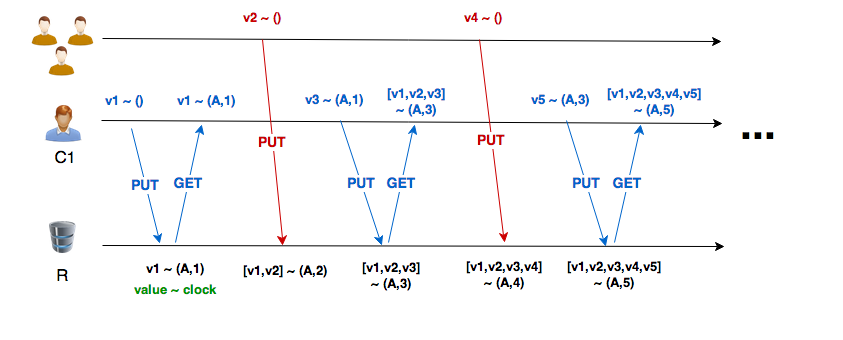
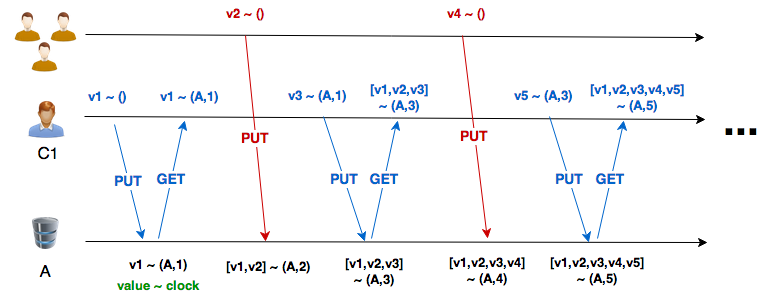
Updated readme with new explanations, new imagens, a new section with real benchmark, introduced client ids and DVV.

diff --git a/README.md b/README.md
@@ -2,7 +2,8 @@
 
 **TL;DR** Dotted Version Vector Sets are similar to Version Vectors (Vector Clocks for some), but prevent false conflicts that can occur with Version Vectors. I also has a better API and is better suited to distributed use cases, such has distributed databases (has shown below).
 
-### Summary
+### Contents
+
 - Intro
 - Why not Version Vectors (Vector Clocks)?
 - The Solution: Dotted Version Vector Sets
@@ -11,75 +12,131 @@
 
 ## Intro
 
-We are presenting the **compact** version of the original [Dotted Version Vectors][paper dvv], which we call **Dotted Version Vector Set (DVVSet)**. It provides a container for a set of conflicting values with causal order information.
+We are presenting the **compact** version of the original [Dotted Version Vectors][paper dvv](DVV), which we call **Dotted Version Vector Set (DVVSet)**. Like its predecessor, DVVSet still accurately describes causality between conflicting values (values we cannot decide through their causal history, which one to keep), but now with a smaller representation, similar to Version Vectors in size.
 
-Let's assume the scenario of a Distributed Key-Value Storage (Ex: Riak, Cassandra, etc), where the entities are the clients and the replicas, and we can also **PUT** (write a value) and **GET** (read a value).
+Let's assume the scenario of a Distributed Key-Value Storage (Ex: Riak, Cassandra, etc), where we have clients, servers and we can write (**PUT**) and read (**GET**) values. We also want to track the causality information of these values.
 
-We can use DVVSet to keep a value and its causal history, with the support for multiples values if they are causally conflicting. One DVVSet is supposed to have 1 value, unless we synchronize or write conflicting DVVSet (we cannot decide through their causal history, which one is newer).
-Therefore, this data structure abstracts the process of tracking and reasoning about the causal relationship of multiple values.
+We can use DVVSet to keep values and their causal history together, with support for multiples conflicting values. One DVVSet has 1 value if there are no conflicts. Otherwise, it stores all conflicting values and their relevant causal information, all in a single DVVSet. Thus, this data structure encapsulates the process of *tracking*, *maintaining* and *reasoning* about values' causality.
 
 
 ## Why not Version Vectors (Vector Clocks)?
 
-First, [Version Vectors are not Vector Clocks][blog VV are not VC]. We are targeting Version Vectors (VV) in this case. Specifically, VV are not suited to support conflicting values. When using VV, we map a value to a VV, and if we try to reconcile two values using their VV, sometimes we have conflicts and want to keep both values. In this situation, want to do with their VV? We have a couple of options: (#1) keep both values and both VV; (#2) keep both values and merge their VV.
-Let's analyze each option with an example with one server and two clients reading and writing to a single key.
+First, [Version Vectors are not Vector Clocks][blog VV are not VC], both have similar structure but different semantics. In this context, the relevant mechanism is *Version Vectors (VV)*.
+
+Every key/value has an associated VV and sometimes conflicts arise, because values for the same key have conflicting VV (there isn't a single VV that dominates all others). Considering that we want to keep all conflicting values until something (a conflict resolution algorithm) or someone (the user) decides hot to reconcile. The question is: **How do we represent conflicts in the server?**
+
+### Client IDs vs Server IDs
+
+There are two different approaches when using VV or similar causality tracking mechanisms: use **Server IDs (SI)** or use **Client IDs (CI)**.
+
+VV need identifiers to track the *entities* responsible for the events. We can either make the servers *responsible* for events to a value (SI), or we can make clients responsible (CI).
+
+A **false conflict** occurs when a set of values contains values that *should* be discard, if the causality were correctly preserved. 
+VV with CI don't have false conflicts like VV with SI. However, they don't scale well. On the other hand, VV with SI scale, but don't have a good support for conflicting values.
 
 
-#### Approach #1 - **Keep both**:
+### Client/Server Example
 
-You can keep both VV, but you are requiring more space for this key. More importantly, VV are not always sufficient to represent conflicts created by two "concurrent writes".
+Lets illustrate the different VV approaches to track events in a simple client/server interaction.
 
-![VV with conflicts #1][VV 1]
 
-**Problem**: As we can see, there is no way for *vanilla* VV to represent two conflicting values, since we can only increment the VV with the id of the server: if we use (A,1) for both, we are saying that they are causally equal, which is not true; using (A,2) implies that *v2* is causally newer than *v1*, which is also not true. If we assume (A,1) for both values *v1* and *v2*, we then have an additional problem where the behavior is undefined or incorrect: in the 3rd write, we receive a value that read *v1* ~ (A,1), so it should conflict with *v2* and overwrite *v1*; however, when writing *v2*, we did not increment its VV to (A,2), thus the new write *v3* wins over (A,1) and overwrites both *v1* and *v2*.
+#### Client IDs
+
+Using VV with CI, you don't have any problem representing conflicts in the server, because each write is associated with the client that did it. We can see that *v3* correctly superseded *v1*, thus no false conflict occurred.
+
+![VV Client IDs #1][VV 1]
+
+**Problem**: If 1000 different clients write to a key/value, its VV will have 1000 `(client_id, counter)` entries. We could prune older entries when a limit is reached, to bound growth and improve scalability, but it would introduce false conflict problems. Additionally, the same client could write to different servers and each would have the same VV, although being different writes. We could combine the identifier to be a pair `client_id/server_id`, but that would actually worsen the VV growth problem even more.
+
+
+#### Server IDs #1 - Keep VV Separated
+
+Using SI, you could keep both VV when conflicts occur, but you would consume more space. More importantly, VV are not sufficient to represent conflicts created by two "concurrent writes".
+
+![VV Server IDs #1][VV 2]
+
+**Problem**: As we can see, there is no way for VV-SI to represent two conflicting values, since we can only increment the VV with the server id: if we use (A,1) for both, we are saying that they are causally equal, which is not true; using (A,2) implies that *v2* is causally newer than *v1*, which is also not true. If we assume (A,1) for both values *v1* and *v2*, we then have an additional problem where the behavior is undefined or incorrect: in the 3rd write, we receive a value that read *v1* ~ (A,1), so it should conflict with *v2* and overwrite *v1*; however, when writing *v2*, we did not increment its VV to (A,2), thus the new write *v3* wins over (A,1) and overwrites both *v1* and *v2*.
 
 A possible solution could be to use some **metadata** to tell us how the values came from and how to deal with conflicting values, but it would not be straightforward and would be full of corner cases and prone to bugs. We should not put the burden on the developer to implement causal behaviors of conflicting values on top of VV.
 
 
-#### Approach #2 - **Merge both**
+#### Server IDs #2 - Merge VV
 
 Another solution is to keep both values and merge their VV into one, which saves space when compared to the previous approach. If a new write conflicts with an existing VV, then merge both VV and increment it normally using the server id. Both values are now related to this new merged VV.
 
-![VV with conflicts #2][VV 2]
+![VV Server IDs #2][VV 3]
 
 **Problem**: We lose the information that *v1* was associated with (A,1) and not (A,2). In the third write we can see how this approach could lead to **false conflicts**. *v3* is being written with (A,1), therefore we know that it should win over *v1* and conflict with *v2*, but since we lost information about the causal past of *v1*, the server has no other option but to keep all three values and merge the VV again. Now the problem is even worse, since we are saying that all three values are related to (A,3). It's easy to see that this could lead to undesired behavior and an explosion of false conflicts.
 
 
 
-## The Solution: Dotted Version Vector Sets
+## The Solution: Dotted Version Vectors (Sets)
 
-We solve the problems above with Dotted Version Vector Sets (DVVSet). Instead of having a mapping between values and their causal information (be it Version Vectors or some other mechanism), we provide a data structure that keeps values and causal information together, while providing a sensible API to manipulate it.
+The problems described above are the reasons that made us develop the original *Dotted Version Vectors (DVV)* in the first place. It uses *Server Ids* but without the problems stated above.
+Lets give a brief explanation about DVV. 
 
-Let's see how DVVSet would manage in our previous example:
+### The Origin: Dotted Version Vectors (DVV)
 
-![Dotted Version Vector Set][DVVSet1]
+A VV is a set of pairs `(id, counter)`. The value of `counter` means that we know all events done by `id` until `counter`. Thus, if `counter` is 3, we know about events #1, #2 and #3, done by that `id`.
 
-As we can see from the example, we have a compact representation like approach #2, while preserving sufficient individual causality to infer that *v1* could be discard, since in the 3rd write we have a VV that already describes the causal information associated with *v1*.
+The novelty of DVV is to provide the context where the last event happened. To do that, we separate the last event from the VV itself. This last event is what we call the **Dot** (hence *Dotted* Version Vectors). It's a pair `(id, counter)`, but only represents the event of that exact counter and not previous events. A `(A, 3)` *Dot* only represents the event 3 by A, and nothing else. Thus, this *Dot* allows the representation of non-contiguous set of events, per value. 
+Using this, we solve the problem we presented earlier:
 
-A DVVSet is a set of triplets **(ID, Counter, Values)**: *ID* is a unique identifier; *Counter* is a regular monotonic growing counter, starting at 1 for the first event (much like a normal Version Vector); *Values* is an ordered list of values, where each new value is put at the head of the list. 
-There is an implicit mapping between values and their causal history. Considering the triplet *(I, C, V)*, for each value V[i] of V (V is zero-based index) we can see the mapping `value ~ clock` as `V[i] ~ (I, C-i)`.
+![Dotted Version Vectors][DVV]
 
-Lets take a more detailed and graphical look at how *GET* and *PUT* worked in our example.
+A DVV has a VV and a *Dot*. On the first write, since *v1* had no causal context, the VV in the DVV is also empty. The *Dot* captures the last event, which in this case, is `(A,1)`.
+When *v2* is written, it also doesn't have causal history, so the DVV also has a empty VV. Since we are writing to server A, and event 1 by A has already occurred, *v2* is then event 2, thus the Dot cebomes `(A,2)`. Both values coexist without confusing and preserving their background. 
+Finally, when *v3* arrives with a context of `(A,1)`, we know that it already read *v1*, thus it can be safely discarded. We keep *v2* because it has events that *v3* does not know. The DVV for *v3* is the VV given by the client, and the *Dot* is the next available event by A : `(A,3)`.
 
-##### Reading (GET #1)
+We have solved this problem by allowing values to "know" non-contiguous set of events (however, all DVVs combined should have a set of contiguous events).
 
-![Dotted Version Vector Set in a GET][DVVSet2]
-
-We extract the *global* causal information (simply a version vector) from DVVSet using a function called `join` and extract all values using the function `values`. The causal information should be treated as an opaque object that should be returned in a subsequent write. The values are for the client to do want it wants, and possibly write a single value back later.
-
-##### Writing (PUT #3)
-
-![Dotted Version Vector Set in a PUT][DVVSet3]
-
-We receive a value and a version vector from the client and we have a local server DVVSet. We synchronize the DVVSet with the VV with `sync` to discard old information. In this case, *v1* is outdated because the client VV already knows (A,1), therefore we discard it. On the other hand, *v2* is associated with (A,2), thus we keep it. We can imagine this `sync` operation as a function that overlaps the VV on the DVVSet, and discard every value that is "overshadowed" by the VV.
-Having done that, we advance our causal information in DVVSet and put the new value *v3* inside it, using `event`. Our API provides a function called `update` that does this two steps at once.
+For more information about **VV/SI** vs **VV/CI** vs **DVV** see this article: [Dotted Version Vectors: Efficient Causality Tracking for Distributed Key-Value Stores][paper dvv]).
 
 
-#### The Anonymous List
+### The Optimization: Dotted Version Vector Sets (DVVSet)
 
-We actually simplified the DVVSet structure a bit for explanation purposes. A valid DVVSet is a list of triplets **(ID, Counter, Values)** like before, with an additional list of values. We call this the **anonymous list**, because it stores values that are not associated any specific point of the causal history, but is instead related to the global causal history. Thus, to "win" over values in *DVVSet1* with an `update` or a `sync`, the other VV or DVVSet must causally dominate *DVVSet1* completely.
+Dotted Version Vector Sets (DVVSet) solves the exact same problems as DVV, but is much more concise and simple. Instead of having a DVV of each conflicting value, lets combine all the VV in the DVV and have a global VV, while keeping the *Dot*s.
+Now, instead of:
 
-But why do we need or want this list? There are use cases where we want to simplify values into a single value. We have a function named `reconcile` that receives a DVVSet and a function. This function receives a list of values and returns a new value (the *winner*). Since this is (or could be) a completely new value, therefore not created directly by a client request, we store it in the anonymous list. It would be dangerous store it in any triplet, since subsequent synchronizations or comparisons with this clock could be unsafe (for example, two DVVSet could be causally equal but have different values, thus one of them could be incorrectly thrown away).
+`v2 ~ ([],(A,2)) ; v3 ~ ([(A,1)],(A,3))`
+![Dot 1][Dot 1]
+
+like the last result in our previous example, we have:
+
+`v2 ~ (A,2); v3 ~ (A,3) ; (A,1)`
+![Dot 2][Dot 2]
+
+So, we have 2 *Dot*s and one global VV. Taking it a step further, we can use implicit value placement to represent the *Dot*s like so:
+
+`(A,1,[v2,v3])`
+![Dot 3][Dot 3]
+
+meaning that `(A,1)` is the global VV and `[v2,v3]` are the *Dot*s. Their position is what gives us the exact *Dot* for each one. *v2* is the first element, so we add 1 to the global VV and have the *Dot* `(A,2)`. *v3* is second element, so we add 2 to the global VV and have the *Dot* `(A,3)`. 
+Well, actually for implementation purposes, it more practical to have the VV as the whole set of events and the list of values reversed. Our example becomes:
+
+`(A,3,[v3,v2])`
+![Dot 4][Dot 4]
+
+where each *Dot* is the zero-based index position in the list, minus the counter in the VV. Thus, `v3 ~ (A,3-0)` and `v2 ~ (A,3-1)`, which is the same as before.
+
+Recapping, a DVVSet is a set of triplets **(ID, Counter, Values)**: *ID* is a unique server identifier; *Counter* is a regular counter, starting at 1 for the first event; *Values* is an ordered list of values, where new values are added to the head. 
+Considering the triplet `(I, C, V)`, the *Dot* for each value `V[i]` of V (V is zero-based index) is `(I, C-i)`.
+
+Now, let's see how DVVSet would manage in our previous example:
+
+![Dotted Version Vector Set][DVVSet 1]
+
+We have a compact representation like approach VV with SI #2, while preserving sufficient per value causality information to infer that *v1* could be discard, since in the 3rd write already knows the causal information associated with *v1*.
+
+#### The Anonymous List (AL)
+
+We actually simplified the DVVSet structure a bit for explanation purposes. The complete DVVSet is a list of triplets **(ID, Counter, Values)** like before, with an additional list of values. We call this the **Anonymous List (AL)**, because it stores values that are not associated any *Dot*, but is instead related to the global VV. Thus, the only way to supersede values in the AL, is to dominate the global VV.
+
+##### Reconcile
+
+But, why do we need or want this list? Sometimes we want to simplify values into a single value. For example, apply a conflict resolution algorithm. 
+`reconcile` is a function that receives a DVVSet and another function. The latter receives a list of values and returns a new value (the *winner*). the result can be a completely new value (one that was not created directly by a client event in the server), we store it in the AL. 
+It could be dangerous store it as a *Dot*, since subsequent synchronizations or comparisons with this clock could be unsafe (for example, two DVVSet could be causally equal, but have different values, thus one of them could be incorrectly thrown away).
 
 Here is an (Erlang) example using `reconcile`:
 
@@ -90,10 +147,13 @@ Here is an (Erlang) example using `reconcile`:
     {[{a,4,[]}, {b,1,[]}], [18]} = Res.
 ```
 
-We pass to `reconcile` a function that adds all values. The returning DVVSet has the same causal information, but now has only one value (18), which was not present in the previous DVVSet. Thus, we store it in the anonymous list.
+We pass a function to `reconcile` that adds all values. The returning DVVSet has the same causal information, but now has only one value (18), which was not present in the previous DVVSet. Thus, we store it in the AL.
 
-There is a special case of reconcile, named **last-write-wins** (lww), where we also want to reduce all values to a single one, but that value *must* be already present in the DVVSet. Thus, we let the winning value stay in the same triplet as it was before. This function named `lww` has the same parameters as `reconcile`, but the function is a **less or equal** [ordering function][ord fun], from which we keep the greater value of all (*note*: we preemptively discard values in a triplet that are not the last, meaning we only take the head of the list in each triplet). Thus, `Fun(A,B)` returns `true` if A compares less than or equal to B, `false` otherwise. 
-Using `lww`, it is impossible to have two DVVSet comparing equal and having different values (provided that the ordering function used is the same).
+##### Last Write Wins
+
+There is a special case of reconcile, named **last-write-wins** (lww), where we also want to reduce all values to a single one, but that value *must* be already present in the DVVSet. Thus, we let the winning value stay in the same *Dot* as before. 
+This function named `lww` has the same parameters as `reconcile`, but the function it receives is a **less or equal** [ordering function][ord fun]. Thus, this `Fun(A,B)` returns `true` if A compares less than or equal to B, `false` otherwise. Using that, we keep the greatest value (*note*: we preemptively discard values besides the head of a triplet).
+Only using `lww`, it is impossible to have two DVVSet comparing equal and having different values (provided that we use a consistent ordering function).
 
 Here is an (Erlang) example of using `lww` in a DVVSet with values types `{Value, Timestamp}`:
 
@@ -104,7 +164,24 @@ Here is an (Erlang) example of using `lww` in a DVVSet with values types `{Value
     {[{a,4,[{5, 1002345}]}, {b,1,[]}], []} = Res.
 ```
 
-We define a *less or equal* function for our type of values and use it in `lww`, which return a DVVSet with the same causal information, but only with the *greatest* value remaining. Naturally, in this case it's {5, 1002345}, which has the highest timestamp. Notice how the *winning* value stays in its original triplet instead of going to anonymous list, unlike `reconcile`.
+We define a *less or equal* function for our type of values and use it in `lww`. It returns a DVVSet with the same causal information, but only with the *greatest* value remaining. Naturally, in this case it's {5, 1002345}, which has the highest timestamp. Notice how the *winning* value stays in its original triplet instead of going to the AL, unlike `reconcile`.
+
+
+#### Reading
+
+![Dotted Version Vector Set in a GET][DVVSet get]
+
+When a client wants to read a key/value, we extract the *global* causal information (the VV) from DVVSet using a function called `join`. Then, we extract all values using the function `values`. The VV should be treated as an opaque object that should be returned in a subsequent write.
+In the example, `join` gives the VV `(A,3)` and `values` gives the list of values `[v2,v3]`.
+
+
+#### Writing
+
+![Dotted Version Vector Set in a PUT][DVVSet put]
+
+When a client wants to write to a key/value, he gives a value and a VV. We first create a new DVVSet to represent the new write, using `new`. It returns a DVVSet with that VV inside and the new value in the AL.
+The we call a function `update` on that new DVVSet and the server's DVVSet. It synchronizes both to discard old values on the server. In this case, *v1* is outdated because the client VV already knows (A,1), therefore we discard it.
+After this, we advance the causal information in DVVSet and insert a new *Dot* to reflect the new event. In the example, we advance the VV from `(A,2)` to `(A,3)` and create a *Dot* for *v3*.
 
 
 
@@ -122,22 +199,22 @@ Lets take a look at 2 different scenarios, where we can clearly see real world a
     2. some other client writes a new value (without causal information);
     3. repeat 1 and 2.
 
-Version Vector:
+    Version Vector:
 ![VV with conflicts #4][VV 4]
 
-Dotted Version Vector Set:
-![Dotted Version Vector Set #4][DVVSet4]
+    Dotted Version Vector Set:
+![Dotted Version Vector Set #4][DVVSet 2]
 
 * **Scenario 2**
     1. client A writes and reads;
     2. client B writes and reads;
     3. repeat 1 and 2.
 
-Version Vector:
+    Version Vector:
 ![VV with conflicts #5][VV 5]
 
-Dotted Version Vector Set:
-![Dotted Version Vector Set #5][DVVSet5]
+    Dotted Version Vector Set:
+![Dotted Version Vector Set #5][DVVSet 3]
 
 These are two usage patterns where the traditional VV degenerates, while DVVSet behaves well. Lets see this done multiple times with a real Riak instance storing values:
 
@@ -157,15 +234,11 @@ Eshell V5.9.2  (abort with ^G)
 Siblings: 101
 Values: v79 v10 v18 v34 v61 v68 v45 v1 v25 v30 v19 v55 v63 v29 v53 v89 v90 v49 v14 v67 v36 v65 v31 v27 v91 v72 v2 v86 v99 v11 v21 v20 v85 v22 v71 v3 v26 v7 v59 v93 v57 v40 v17 v9 v77 v4 v41 v62 v80 v33 v43 v54 v76 v37 v98 v92 v15 v56 v16 v66 v60 v46 v48 v52 v5 v13 v44 v8 v32 v101 v70 v69 v97 v28 v73 v50 v83 v6 v42 v51 v75 v81 v74 v100 v64 v12 v88 v94 v78 v47 v82 v95 v96 v23 v35 v39 v87 v24 v58 v38 v84!
 
-ok
 2> %%%%%%%%%%%%%%%%%%%%%%%%%% Scenario 2
 2> sib:run2(101).
 
 Siblings: 101
 Values: v32 v75 v49 v19 v83 v50 v72 v1 v33 v22 v14 v26 v92 v64 v9 v86 v37 v85 v16 v17 v99 v43 v24 v47 v56 v11 v87 v52 v67 v94 v35 v81 v95 v6 v28 v27 v8 v20 v10 v100 v53 v97 v13 v62 v38 v93 v55 v34 v31 v74 v5 v3 v54 v25 v59 v84 v12 v76 v23 v42 v36 v39 v58 v45 v73 v78 v96 v66 v51 v48 v41 v80 v71 v101 v79 v57 v30 v7 v68 v77 v82 v65 v15 v89 v63 v40 v18 v91 v60 v21 v29 v70 v46 v98 v4 v2 v69 v90 v88 v61 v44!
-
-ok
-
 
 
 3> %%%%%%%%%%%%%%%%%%%%%%%%%%%%%%%
@@ -178,14 +251,12 @@ ok
 Siblings: 2
 Values: v101 v100!
 
-ok
 4> %%%%%%%%%%%%%%%%%%%% Scenario 2
 4> sib:run2(101).
 
 Siblings: 2
 Values: v101 v100!
 
-ok
 4>
 ```
 
@@ -273,13 +344,19 @@ The major use case that DVVSet targets is a client-server system like a distribu
 [blog VV are not VC]: http://haslab.wordpress.com/2011/07/08/version-vectors-are-not-vector-clocks
 [VV 1]: images/VV1.png
 [VV 2]: images/VV2.png
+[VV 3]: images/VV3.png
 [VV 4]: images/VV4.png
 [VV 5]: images/VV5.png
-[DVVSet1]: images/DVVS1.png
-[DVVSet2]: images/DVVS2.png
-[DVVSet3]: images/DVVS3.png
-[DVVSet4]: images/DVVS4.png
-[DVVSet5]: images/DVVS5.png
+[DVV]: images/DVV.png
+[DVVSet 1]: images/DVVSet1.png
+[DVVSet 2]: images/DVVSet2.png
+[DVVSet 3]: images/DVVSet3.png
+[Dot 1]: images/Dot1.png
+[Dot 2]: images/Dot2.png
+[Dot 3]: images/Dot3.png
+[Dot 4]: images/Dot4.png
+[DVVSet put]: images/PUT.png
+[DVVSet get]: images/GET.png
 [ord fun]: http://www.erlang.org/doc/man/lists.html#ordering_function
 [riak site]: http://basho.com/
 [riak github]: https://github.com/basho/riak
